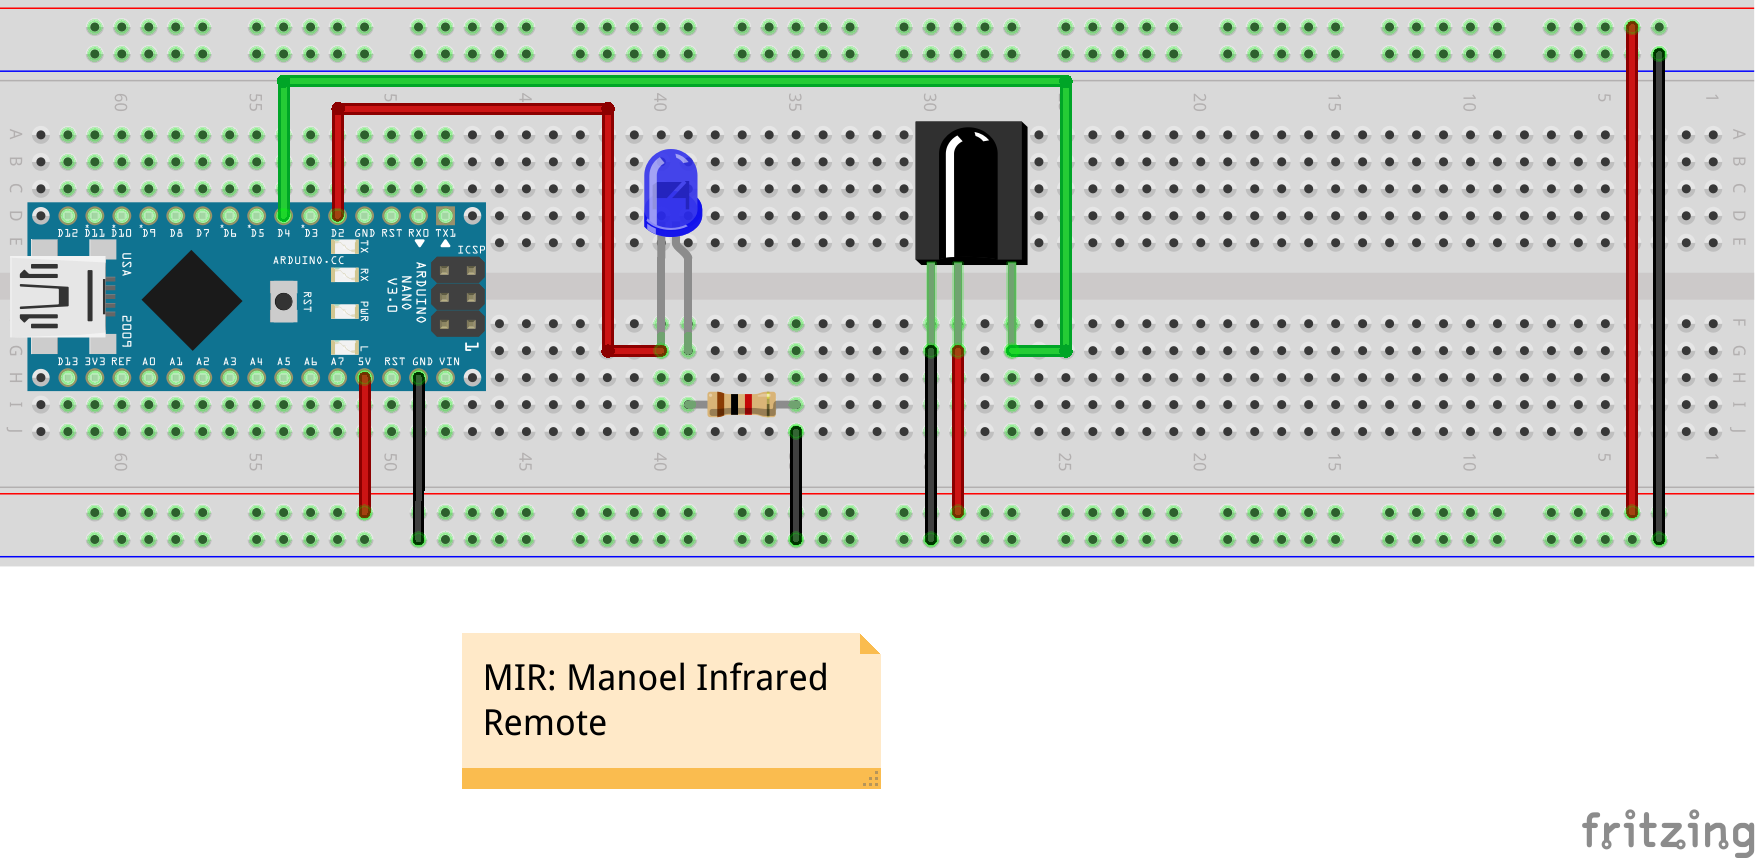
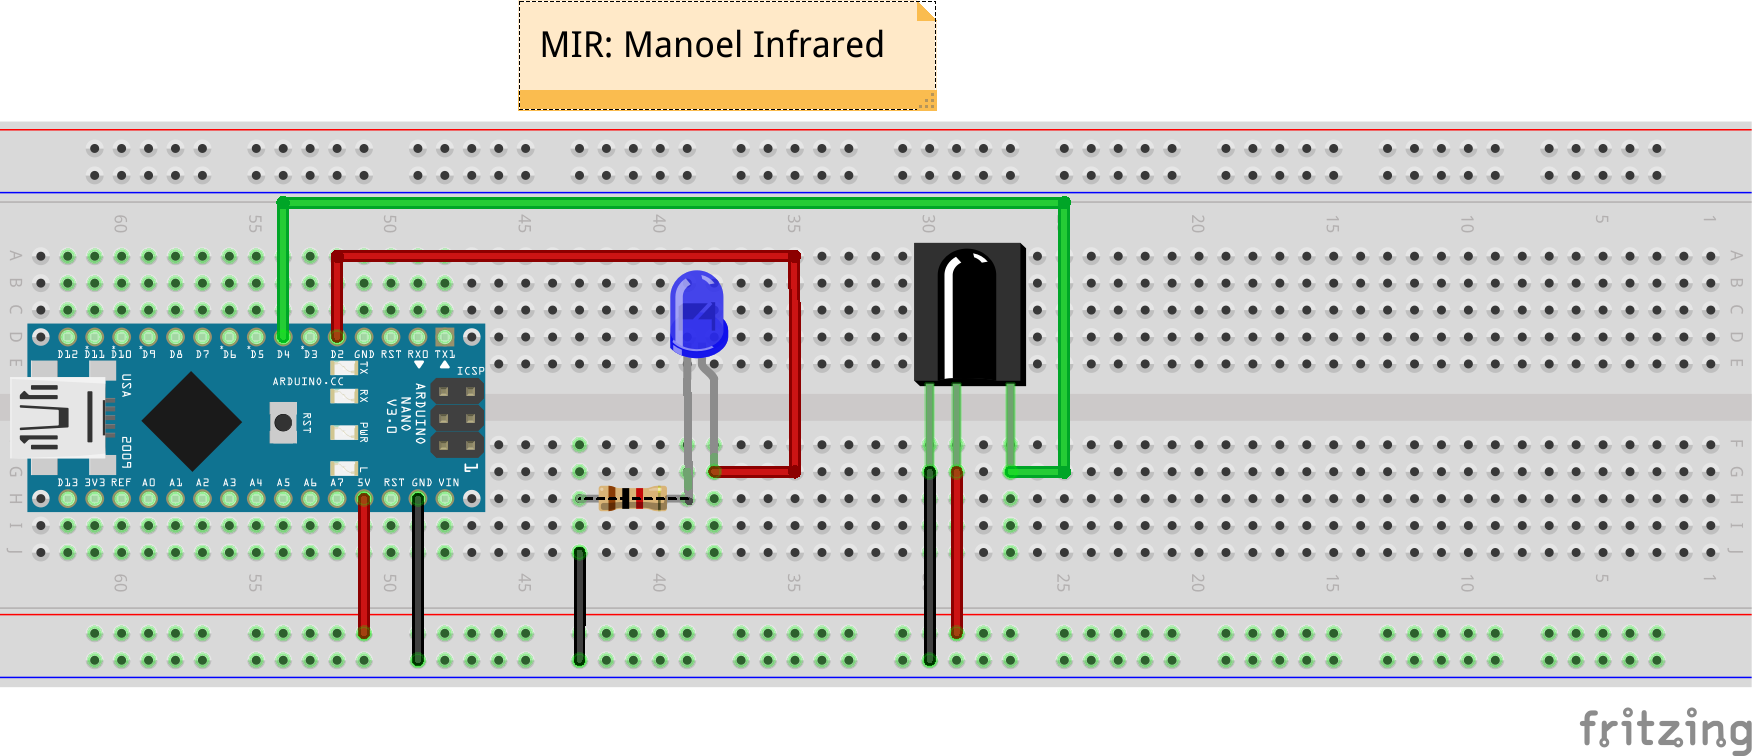
Fix cathode and anode confusion on schem, bb and fritz
Anode: +
Cathode: -

diff --git a/README.md b/README.md
@@ -20,8 +20,8 @@ I use a Sky controller model D40 for my application.
 
 # Usage / Instructions
 
-1. Mount the schematics circuit as described this repository
-2. Write the program of the microcontroller at IRController dir
+1. Mount the schematics circuit as described in this repository
+2. Compile the program of the microcontroller at IRController on the firmware
 3. Plug the Arduino on the USB and run the following instructions:
 
 ```
